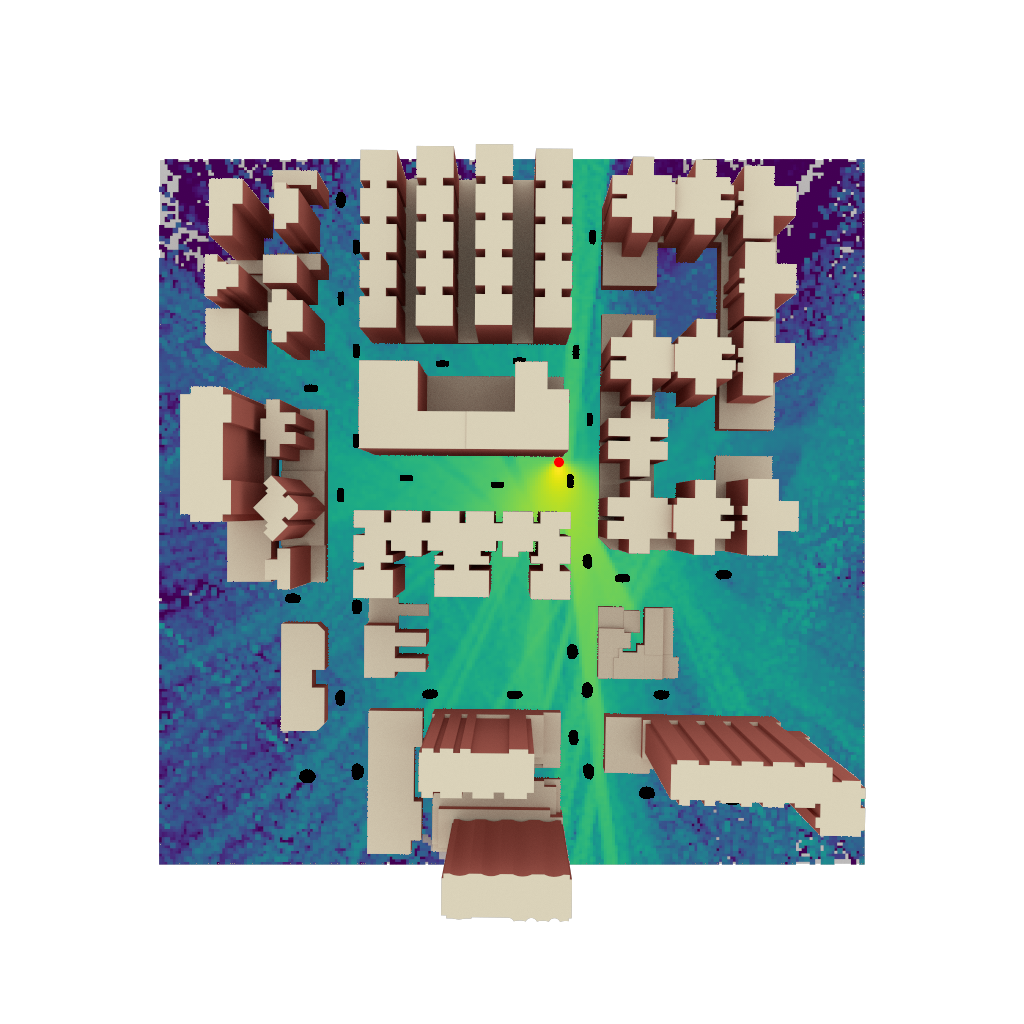
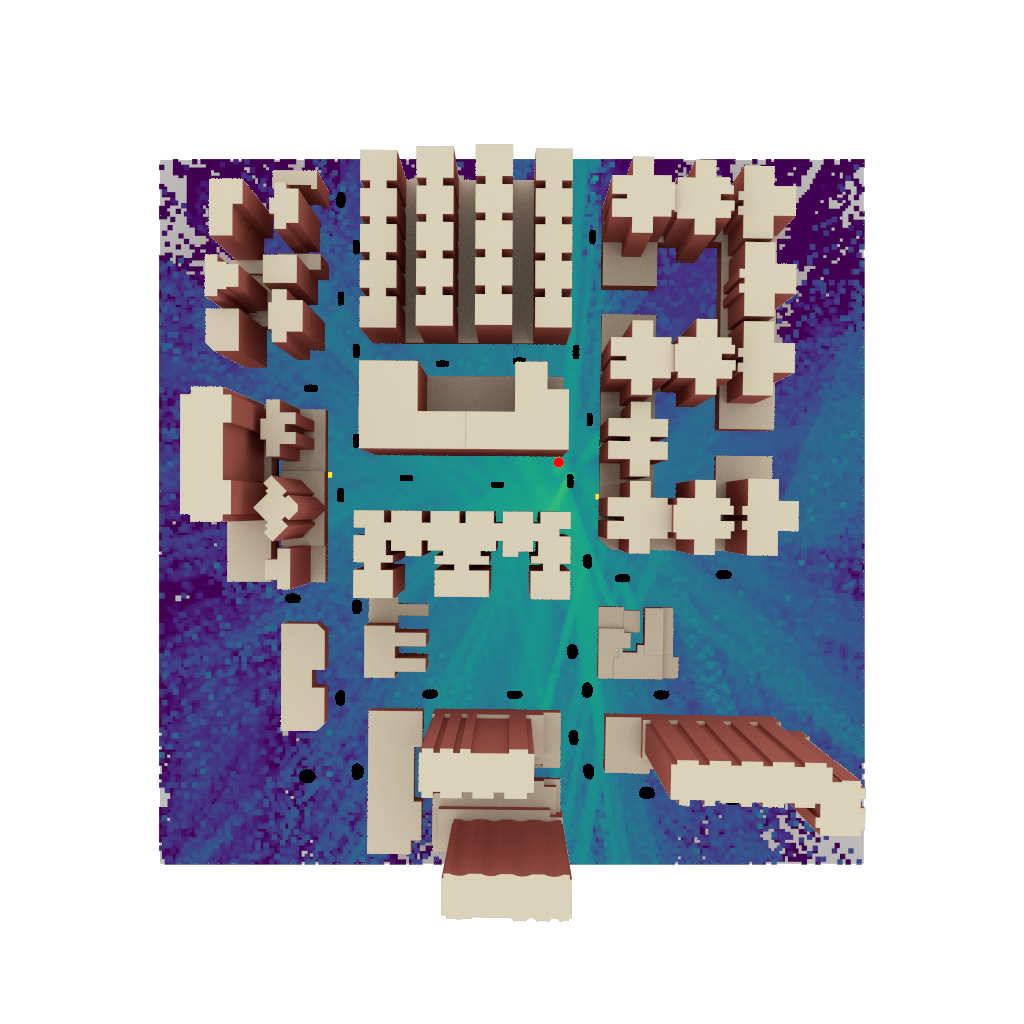
backend

diff --git a/data_gain.py b/data_gain.py
@@ -46,7 +46,7 @@ for idx in range(1,num_scenes+1):
             
   
     
-    scene.add(Transmitter("tx", position=[4,18,3], orientation=[np.pi,0,0]))
+    scene.add(Transmitter("tx", position=[4,18,1.5], orientation=[np.pi,0,0]))
     scene.tx_array = PlanarArray(num_rows=1, num_cols=1, pattern="tr38901", polarization="V")
     scene.rx_array = scene.tx_array
 
